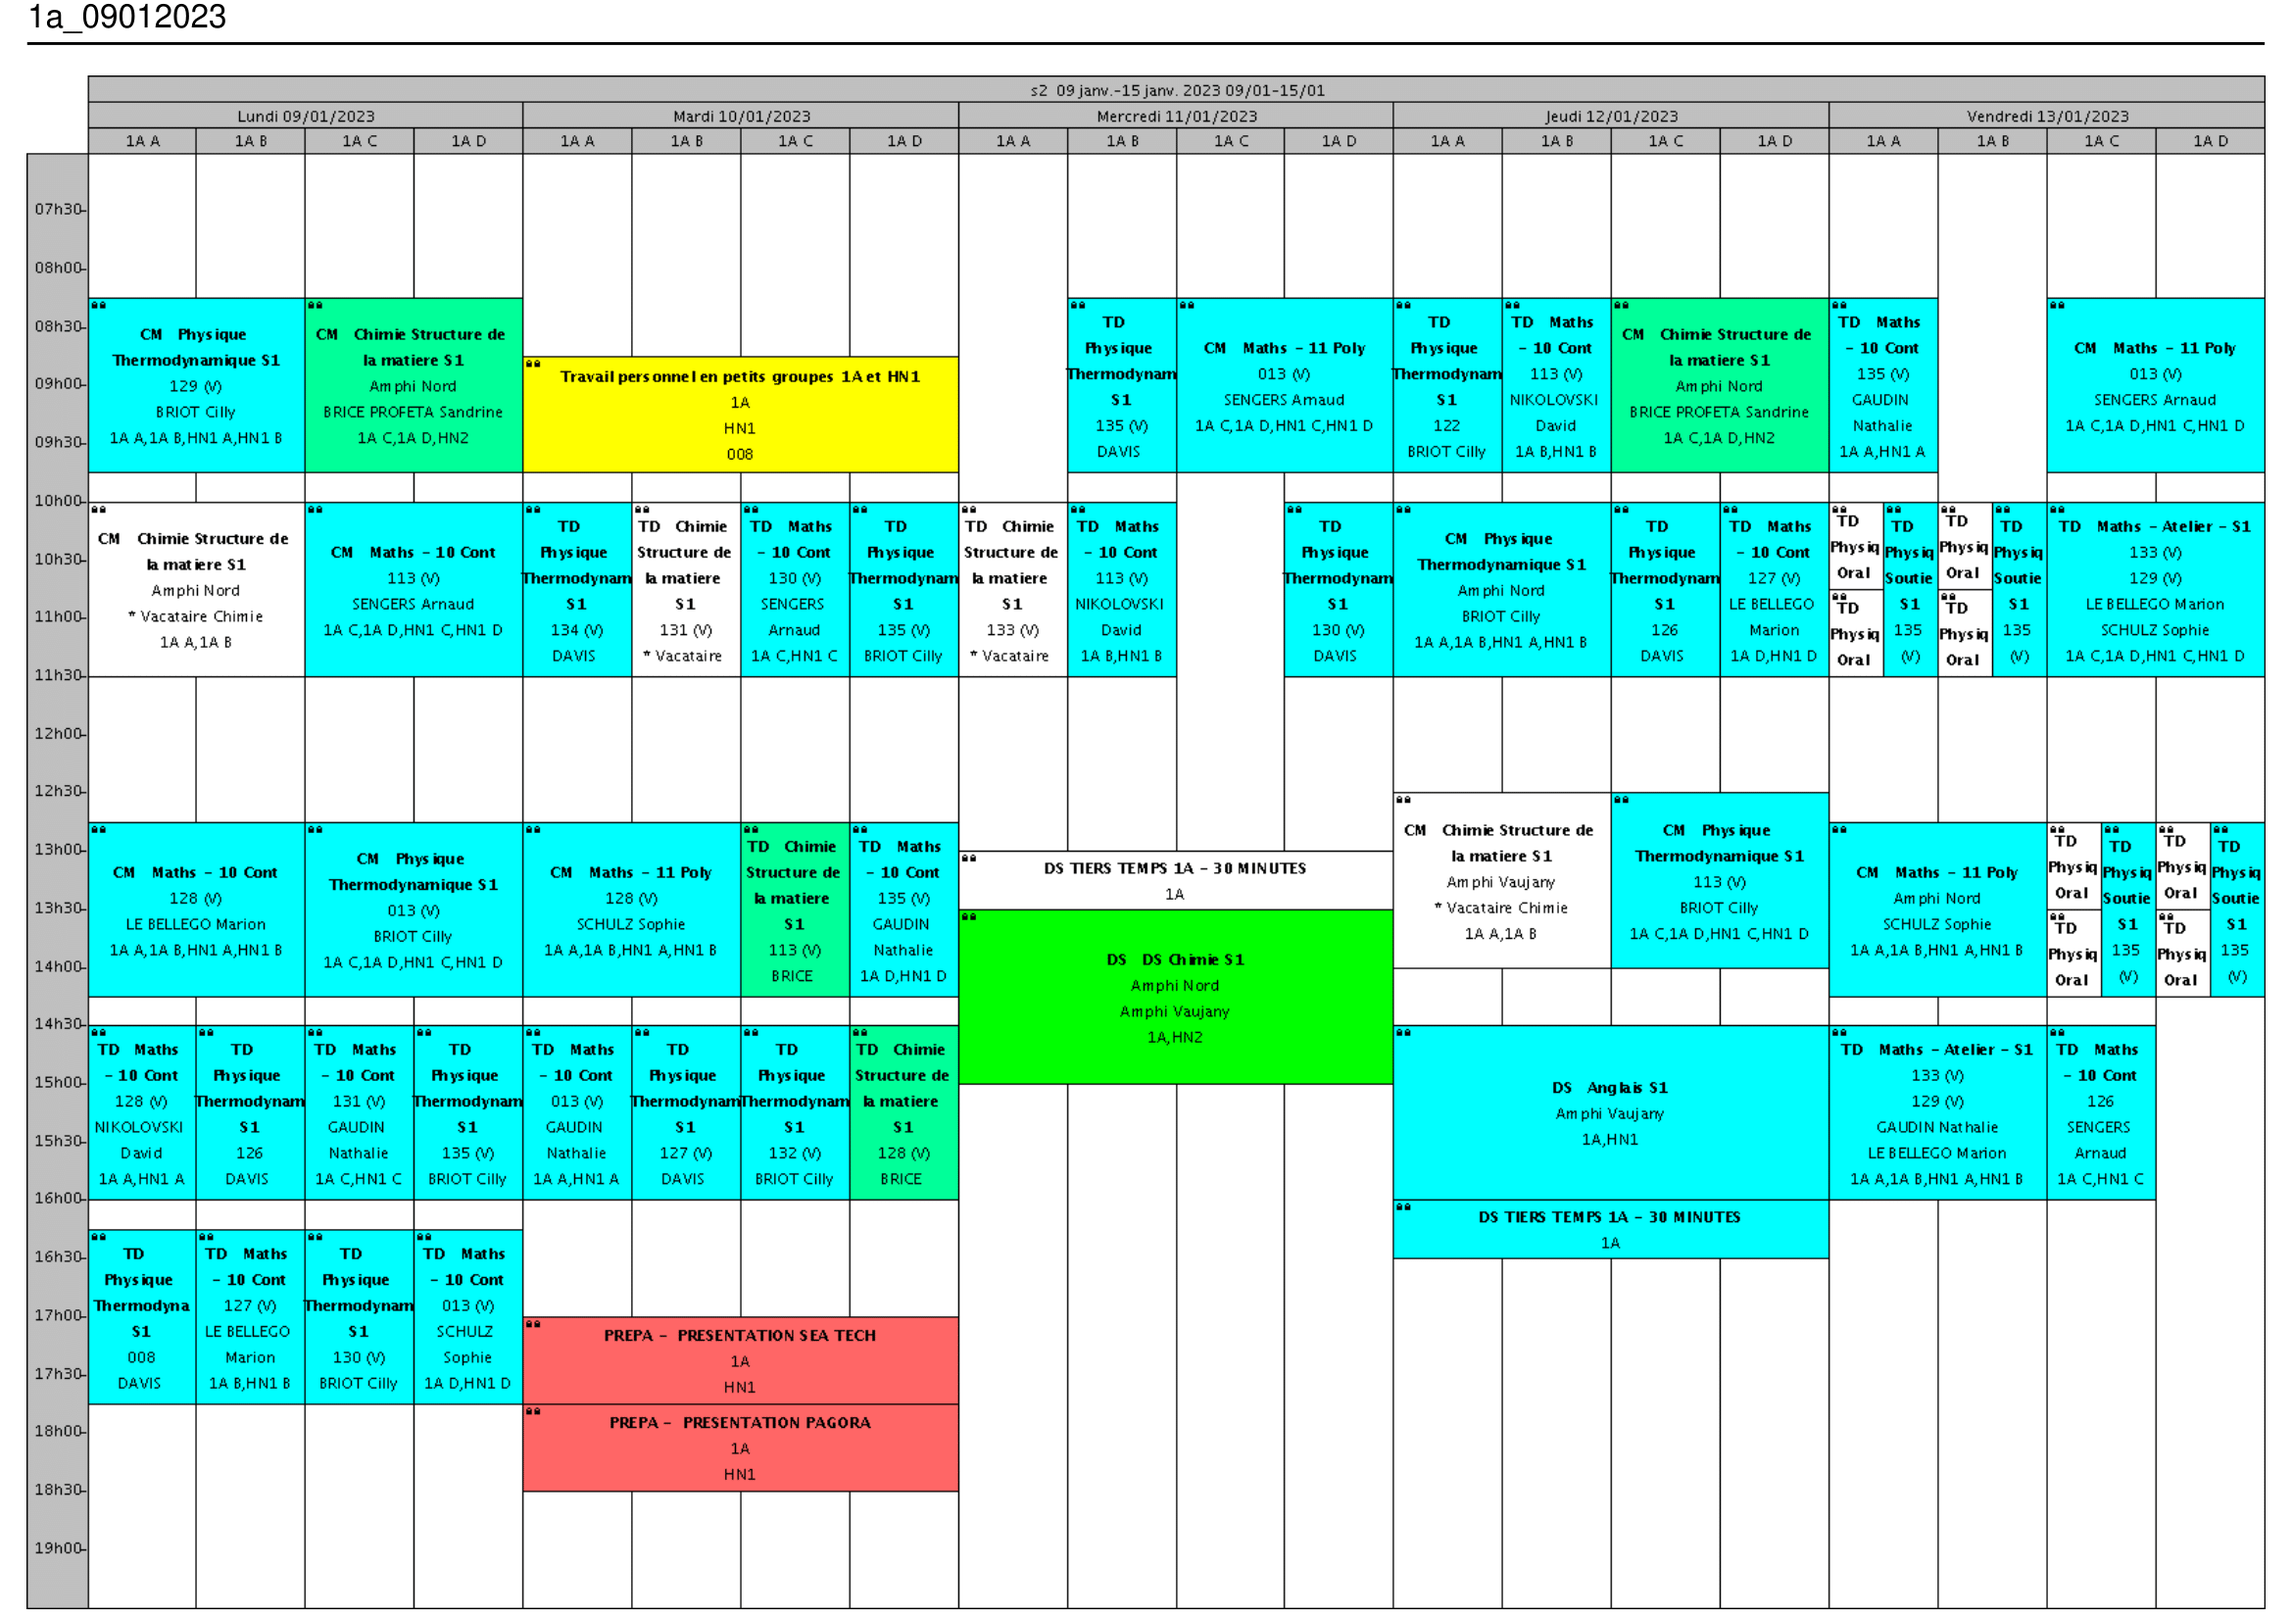
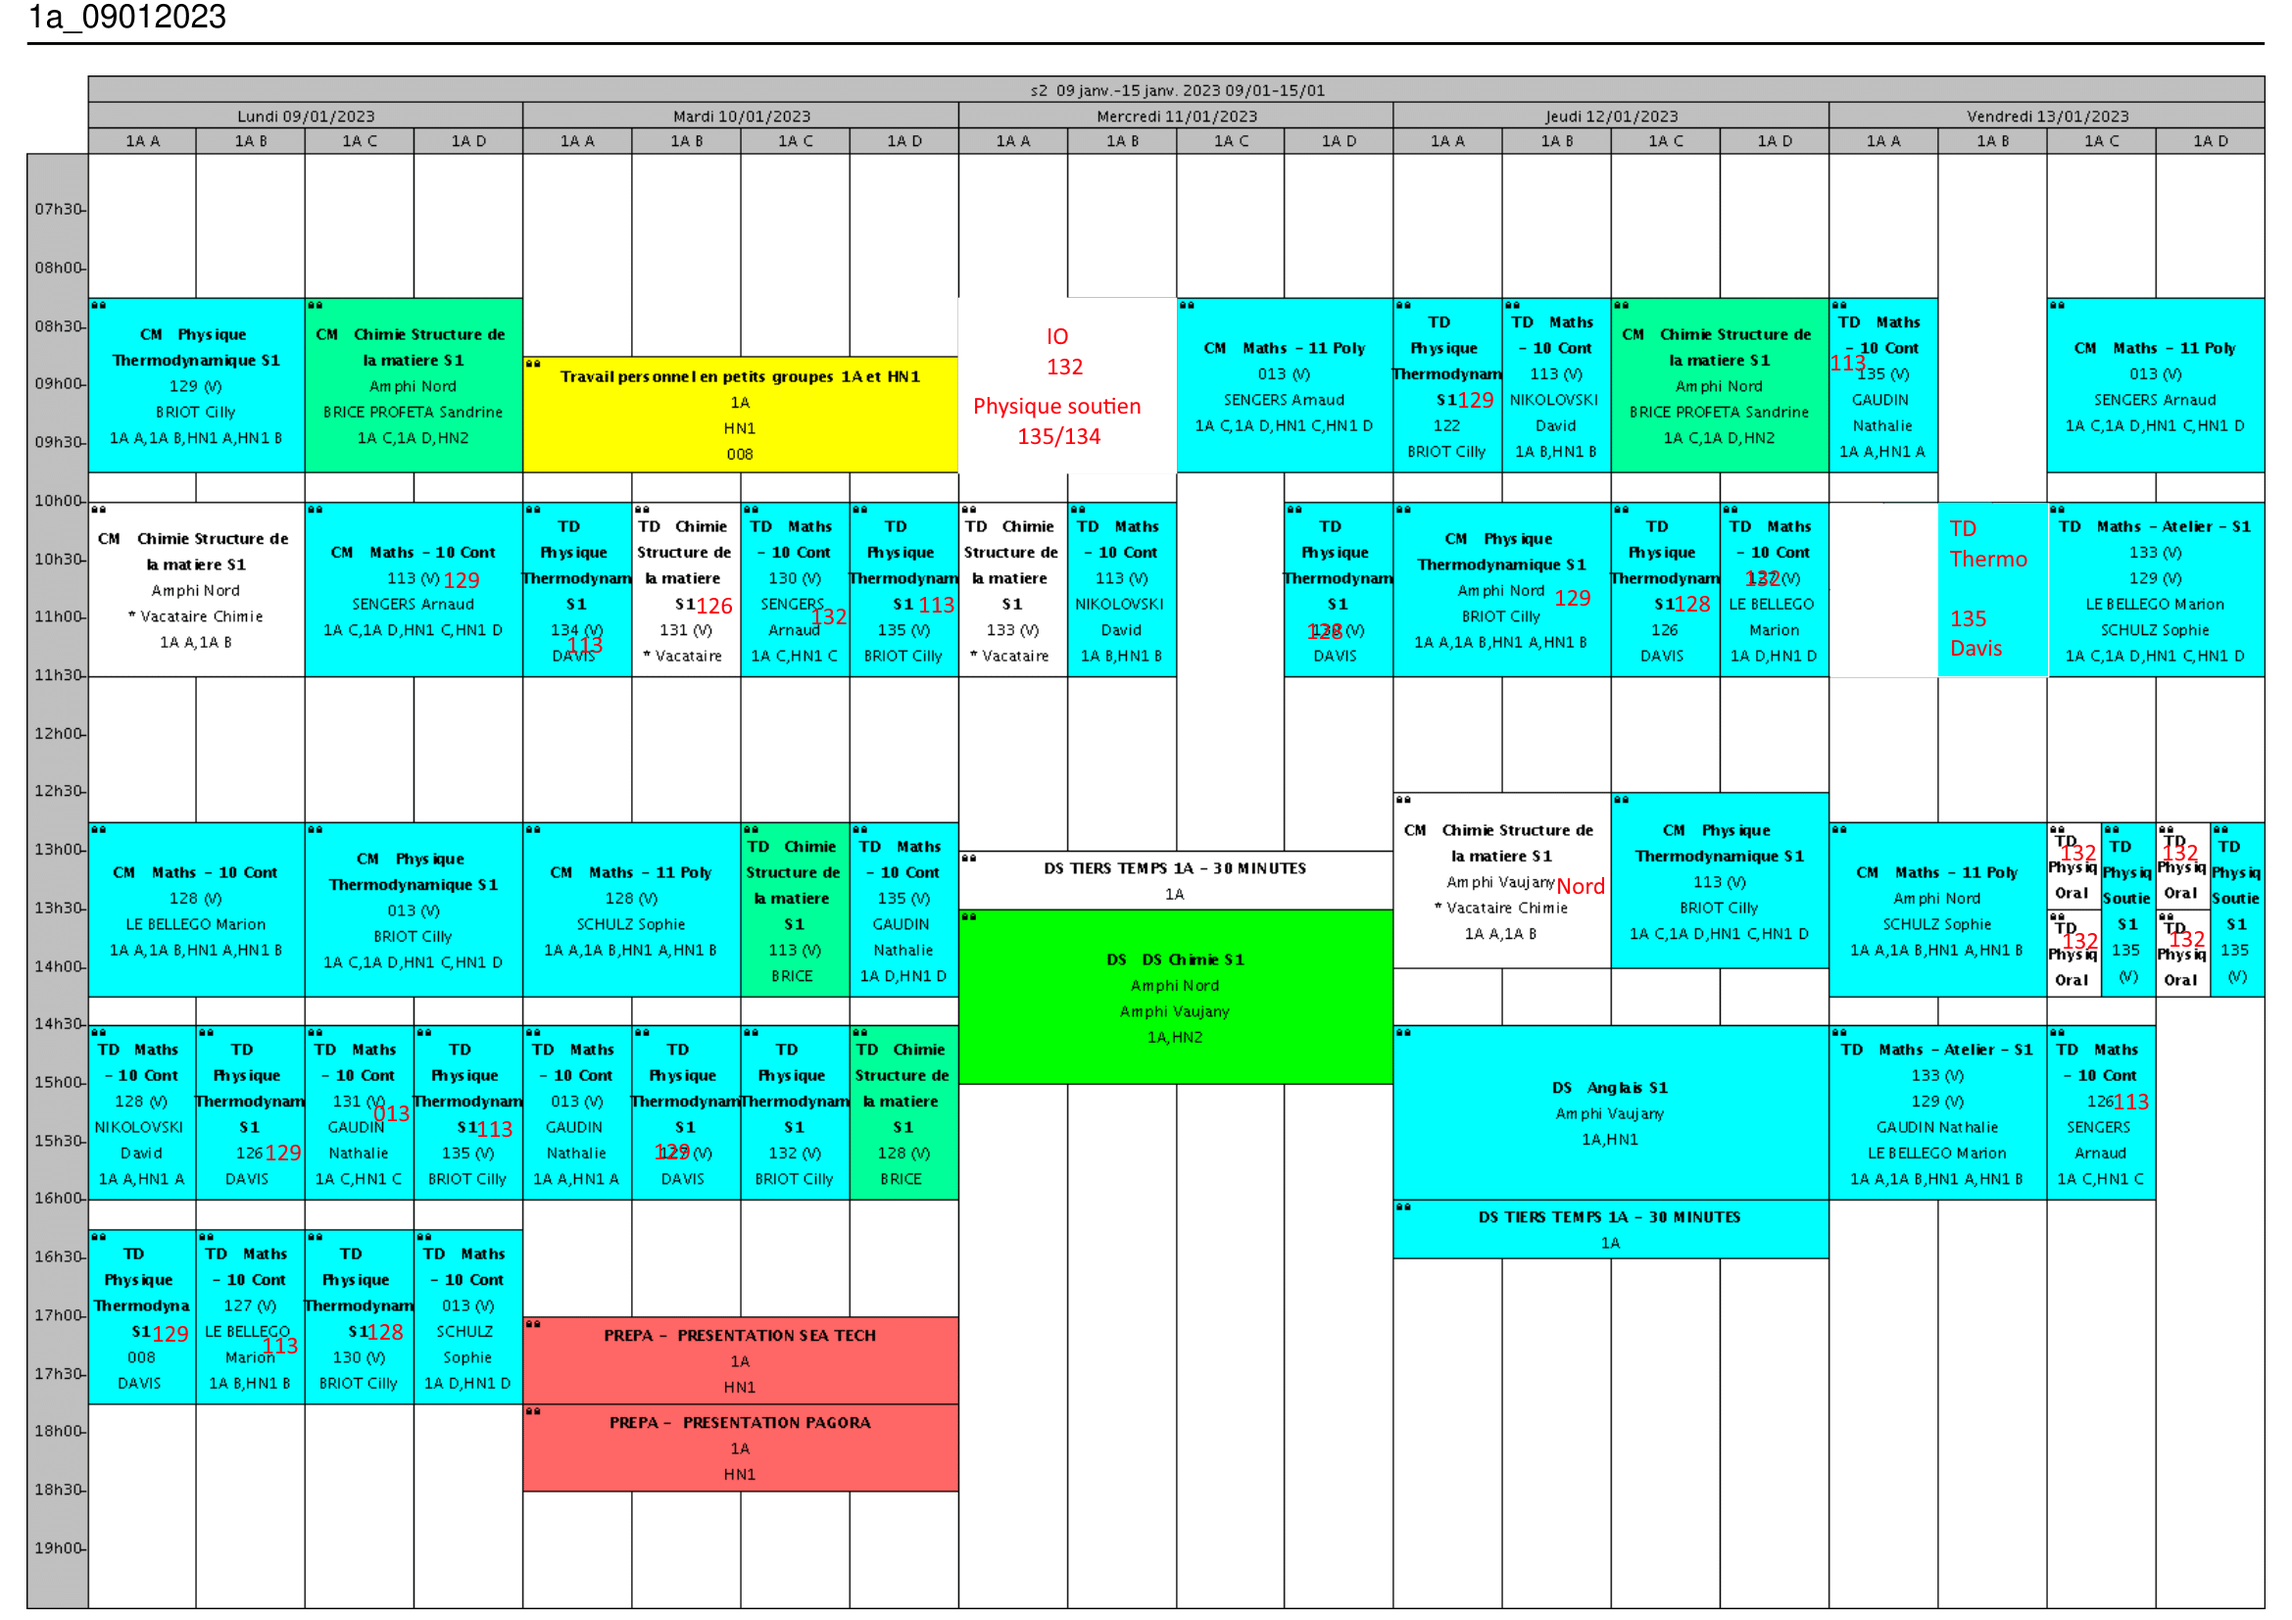
Edt 9/1 maj + bug mineur

Changed region(s): [[0.7802, 0.3085, 0.9051, 0.4319], [0.4369, 0.1851, 0.5306, 0.3085]]

diff --git a/index.html b/index.html
@@ -43,7 +43,7 @@
         if (!(holyday.includes(dateDeb))) {
 
             if (getWeekNumber(dateFin) == getWeekNumber(Date.now()) + 1) {
-                tab.select("tab" + j);
+                tab.select("tab" + (j-1));
 
             }
             dateDeb += 7 * 24 * 60 * 60 * 1000
